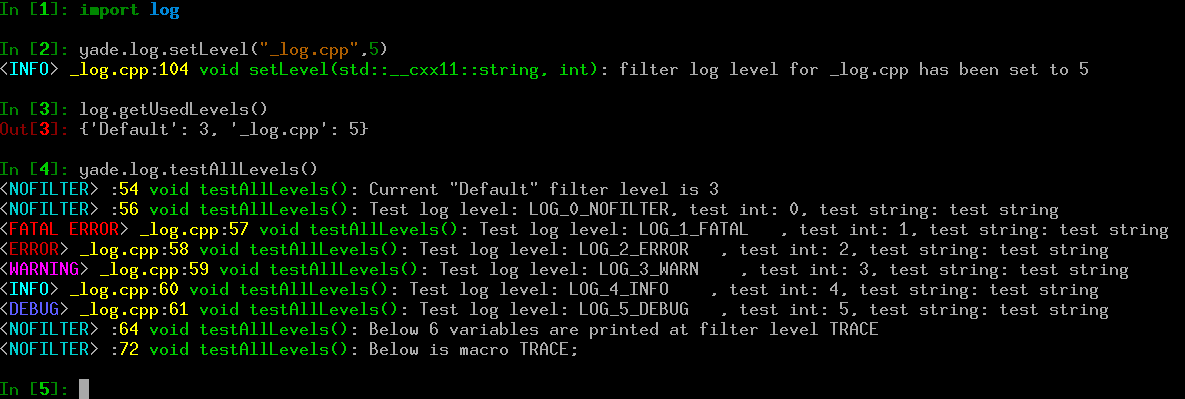
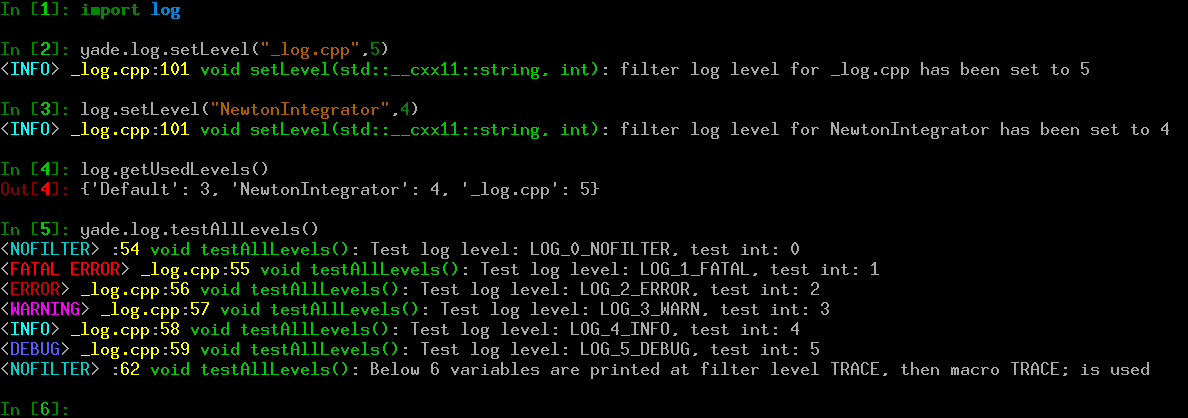
Simpler function testAllLevels()

diff --git a/py/_log.cpp b/py/_log.cpp
@@ -51,17 +51,15 @@ void testAllLevels() {
 	Matrix3r testMat = (Matrix3r() << 1, 2, 3, 4, 5, 6, 7, 8, 9).finished();
 	std::complex<Real> testComplex(-1,1);
 
-	LOG_0_NOFILTER("Current \"Default\" filter level is " << getDefaultLogLevel());
+	LOG_0_NOFILTER("Test log level: LOG_0_NOFILTER, test int: " << testInt++);
+	LOG_1_FATAL   ("Test log level: LOG_1_FATAL, test int: " << testInt++);
+	LOG_2_ERROR   ("Test log level: LOG_2_ERROR, test int: " << testInt++);
+	LOG_3_WARN    ("Test log level: LOG_3_WARN, test int: " << testInt++);
+	LOG_4_INFO    ("Test log level: LOG_4_INFO, test int: " << testInt++);
+	LOG_5_DEBUG   ("Test log level: LOG_5_DEBUG, test int: " << testInt++);
+	LOG_6_TRACE   ("Test log level: LOG_6_TRACE, test int: " << testInt++);
 
-	LOG_0_NOFILTER("Test log level: LOG_0_NOFILTER, test int: " << testInt++ << ", test string: "<< testStr);
-	LOG_1_FATAL   ("Test log level: LOG_1_FATAL   , test int: " << testInt++ << ", test string: "<< testStr);
-	LOG_2_ERROR   ("Test log level: LOG_2_ERROR   , test int: " << testInt++ << ", test string: "<< testStr);
-	LOG_3_WARN    ("Test log level: LOG_3_WARN    , test int: " << testInt++ << ", test string: "<< testStr);
-	LOG_4_INFO    ("Test log level: LOG_4_INFO    , test int: " << testInt++ << ", test string: "<< testStr);
-	LOG_5_DEBUG   ("Test log level: LOG_5_DEBUG   , test int: " << testInt++ << ", test string: "<< testStr);
-	LOG_6_TRACE   ("Test log level: LOG_6_TRACE   , test int: " << testInt++ << ", test string: "<< testStr);
-
-	LOG_0_NOFILTER("Below 6 variables are printed at filter level TRACE");
+	LOG_0_NOFILTER("Below 6 variables are printed at filter level TRACE, then macro TRACE; is used");
 	TRVAR1(testInt);
 	TRVAR2(testInt,testStr);
 	TRVAR3(testInt,testStr,testReal);
@@ -69,7 +67,6 @@ void testAllLevels() {
 	TRVAR5(testInt,testStr,testReal,testVec,testMat);
 	TRVAR6(testInt,testStr,testReal,testVec,testMat,testComplex);
 
-	LOG_0_NOFILTER("Below is macro TRACE;");
 	TRACE;
 #pragma GCC diagnostic pop
 }
